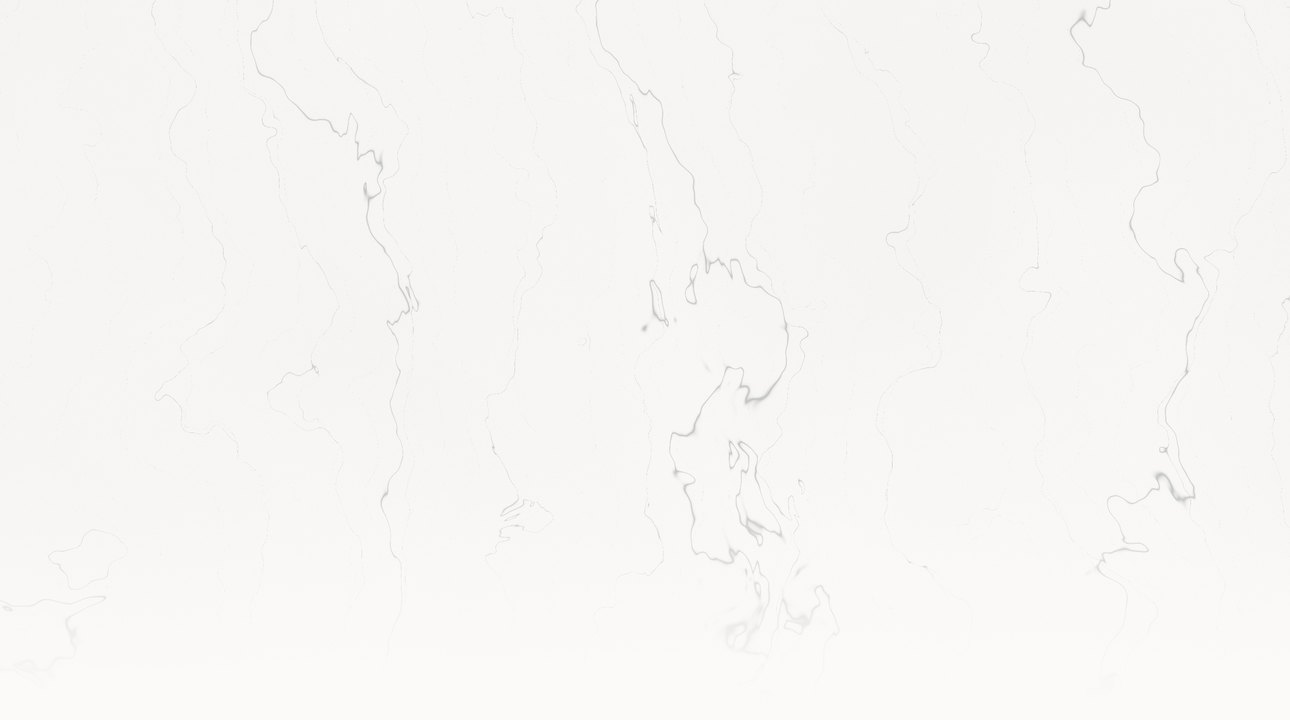
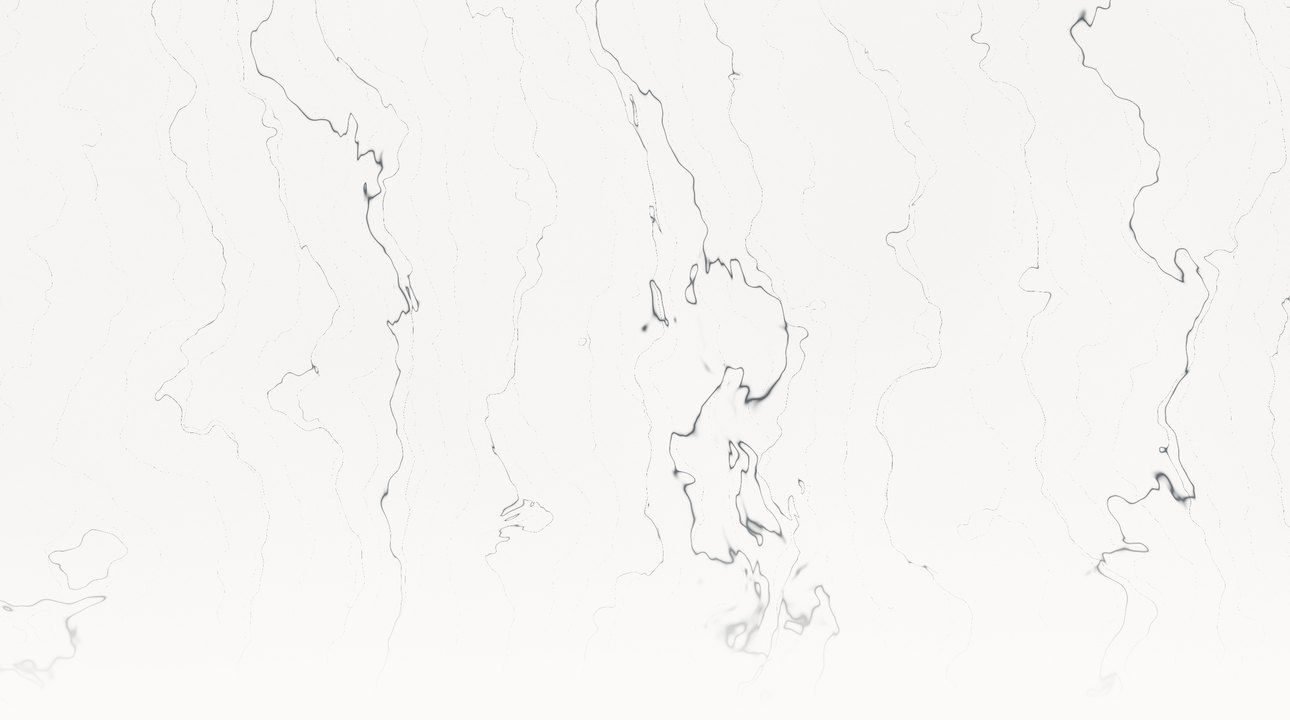
fix(headers): el mármol se ve en claro (T-110)
Vetas del tema claro más oscuras; el velo del header en reposo pasa de 0.55 a 0
(pestañas) y de 0.9 a 0.35 (detalle).

diff --git a/src/components/CollapsibleHeader.tsx b/src/components/CollapsibleHeader.tsx
@@ -52,7 +52,9 @@ export function CollapsibleHeader({
   const insets = useSafeAreaInsets();
 
   const bgOpacity = scrollY.interpolate({
-    inputRange: [0, 60], outputRange: [0.55, 0.97], extrapolate: 'clamp',
+    // En reposo el mármol se ve entero (PO 2026-09-13: en claro no se veía); al scrollear
+    // vuelve el fondo para que el contenido que pasa por debajo no compita con el título.
+    inputRange: [0, 60], outputRange: [0, 0.97], extrapolate: 'clamp',
   });
   const hairOpacity = scrollY.interpolate({
     inputRange: [0, 60], outputRange: [0, 1], extrapolate: 'clamp',
@@ -184,7 +186,7 @@ export function DetailHeader({
       */}
       <FondoMarmol />
       <View
-        style={[StyleSheet.absoluteFill, { backgroundColor: c.bg, opacity: 0.9 }]}
+        style={[StyleSheet.absoluteFill, { backgroundColor: c.bg, opacity: 0.35 }]}
         pointerEvents="none"
       />
       <View style={detail.bar}>

diff --git a/scripts/generar-marmol.py b/scripts/generar-marmol.py
@@ -44,7 +44,7 @@ fade_start = 0.62
 t = np.clip((ys/(H-1) - fade_start) / (1-fade_start), 0, 1)[..., None]
 t = t*t*(3-2*t)
 for nombre, base, vet, k, bg in [
-    ('claro', np.array([.984,.980,.972]) - (1-nube)[...,None]*0.03, np.array([.50,.52,.53]), 0.42, np.array([0xFB,0xFA,0xF8])/255),
+    ('claro', np.array([.984,.980,.972]) - (1-nube)[...,None]*0.03, np.array([.36,.38,.40]), 0.95, np.array([0xFB,0xFA,0xF8])/255),
     ('oscuro', np.array([.059,.066,.071]) + (nube-0.5)[...,None]*0.035, np.array([.62,.64,.63]), 0.55, np.array([0x0F,0x11,0x12])/255),
 ]:
     col = base + (vet - base) * (v*k) + grano
